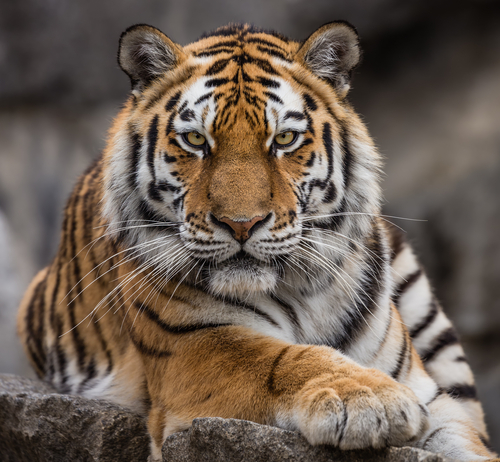
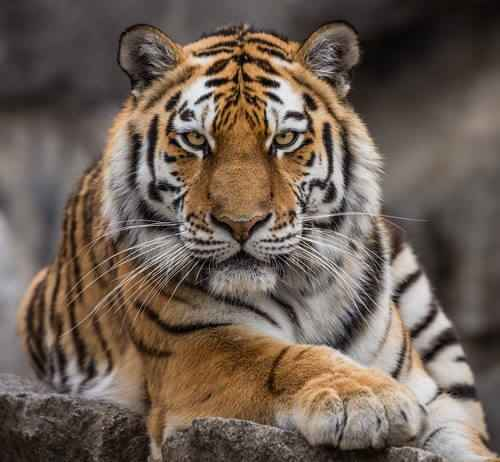
Compress and reupload card images

diff --git a/memory-game.html b/memory-game.html
@@ -18,52 +18,52 @@
     <div id="game-area">
         <div id="grid">
             <div class="game-card" cell-index="0">
-            <img class="card-front" src="assets/images/memory-game/elephant.png" alt="Elephant">
-            <img class="card-back" src="assets/images/memory-game/cover.jpg" alt="Game Card">
+            <img class="card-front" src="assets/images/memory-game/elephant.jpg" alt="Elephant">
+            <img class="card-back" src="assets/images/memory-game/card-back.jpg" alt="Game Card">
             </div>
             <div class="game-card">
-            <img class="card-front" src="assets/images/memory-game/elephant.png" alt="Elephant">
-            <img class="card-back" src="assets/images/memory-game/cover.jpg" alt="Game Card">
+            <img class="card-front" src="assets/images/memory-game/elephant.jpg" alt="Elephant">
+            <img class="card-back" src="assets/images/memory-game/card-back.jpg" alt="Game Card">
             </div>
             <div class="game-card">
-            <img class="card-front" src="assets/images/memory-game/gorilla.png" alt="Gorilla">
-            <img class="card-back" src="assets/images/memory-game/cover.jpg" alt="Game Card">
+            <img class="card-front" src="assets/images/memory-game/gorilla.jpg" alt="Gorilla">
+            <img class="card-back" src="assets/images/memory-game/card-back.jpg" alt="Game Card">
             </div>
             <div class="game-card">
-            <img class="card-front" src="assets/images/memory-game/gorilla.png" alt="Gorilla">
-            <img class="card-back" src="assets/images/memory-game/cover.jpg" alt="Game Card">
+            <img class="card-front" src="assets/images/memory-game/gorilla.jpg" alt="Gorilla">
+            <img class="card-back" src="assets/images/memory-game/card-back.jpg" alt="Game Card">
             </div>
             <div class="game-card">
-            <img class="card-front" src="assets/images/memory-game/kitten.png" alt="Kitten">
-            <img class="card-back" src="assets/images/memory-game/cover.jpg" alt="Game Card">
+            <img class="card-front" src="assets/images/memory-game/kitten.jpg" alt="Kitten">
+            <img class="card-back" src="assets/images/memory-game/card-back.jpg" alt="Game Card">
             </div>
             <div class="game-card">
-            <img class="card-front" src="assets/images/memory-game/kitten.png" alt="Kitten">
-            <img class="card-back" src="assets/images/memory-game/cover.jpg" alt="Game Card">
+            <img class="card-front" src="assets/images/memory-game/kitten.jpg" alt="Kitten">
+            <img class="card-back" src="assets/images/memory-game/card-back.jpg" alt="Game Card">
             </div>
             <div class="game-card">
-            <img class="card-front" src="assets/images/memory-game/panda.jpg" alt="Red Panda">
-            <img class="card-back" src="assets/images/memory-game/cover.jpg" alt="Game Card">
+            <img class="card-front" src="assets/images/memory-game/red-panda.jpg" alt="Red Panda">
+            <img class="card-back" src="assets/images/memory-game/card-back.jpg" alt="Game Card">
             </div>
             <div class="game-card">
-            <img class="card-front" src="assets/images/memory-game/panda.jpg" alt="Red Panda">
-            <img class="card-back" src="assets/images/memory-game/cover.jpg" alt="Game Card">
-            </div>
-            <div class="game-card">
-            <img class="card-front" src="assets/images/memory-game/tiger.jpg" alt="Tiger">
-            <img class="card-back" src="assets/images/memory-game/cover.jpg" alt="Game Card">
+            <img class="card-front" src="assets/images/memory-game/red-panda.jpg" alt="Red Panda">
+            <img class="card-back" src="assets/images/memory-game/card-back.jpg" alt="Game Card">
             </div>
             <div class="game-card">
             <img class="card-front" src="assets/images/memory-game/tiger.jpg" alt="Tiger">
-            <img class="card-back" src="assets/images/memory-game/cover.jpg" alt="Game Card">
+            <img class="card-back" src="assets/images/memory-game/card-back.jpg" alt="Game Card">
+            </div>
+            <div class="game-card">
+            <img class="card-front" src="assets/images/memory-game/tiger.jpg" alt="Tiger">
+            <img class="card-back" src="assets/images/memory-game/card-back.jpg" alt="Game Card">
             </div>
             <div class="game-card">
             <img class="card-front" src="assets/images/memory-game/wolf.jpg" alt="Wolf">
-            <img class="card-back" src="assets/images/memory-game/cover.jpg" alt="Game Card">
+            <img class="card-back" src="assets/images/memory-game/card-back.jpg" alt="Game Card">
             </div>
             <div class="game-card">
             <img class="card-front" src="assets/images/memory-game/wolf.jpg" alt="Wolf">
-            <img class="card-back" src="assets/images/memory-game/cover.jpg" alt="Game Card">
+            <img class="card-back" src="assets/images/memory-game/card-back.jpg" alt="Game Card">
             </div>
         </div>
         <div id="score">

diff --git a/assets/css/memgame.css b/assets/css/memgame.css
@@ -15,12 +15,23 @@ h1 {
     width: 600px;
     height: 450px;
     margin: 0 auto;
+    perspective: 1000px;
 }
 .game-card {
     height: 150px;
     width: 150px;
     position: relative;
     margin: 5px;
+    transform-style: preserve-3d;
+    transform: scale(1);
+    transition: transform .5s;
+}
+.game-card:active {
+    transform: scale(0.97);
+    transition: transform .2s;
+  }
+.game-card.flip {
+    transform: rotateY(180deg);
 }
 .card-front, .card-back {
     height: 100%;

diff --git a/assets/js/memgame.js b/assets/js/memgame.js
@@ -1,0 +1,7 @@
+const cards = document.querySelectorAll('.game-card');
+
+function flipCard () {
+    this.classList.toggle('flip');
+}
+
+cards.forEach(card => card.addEventListener('click', flipCard));
